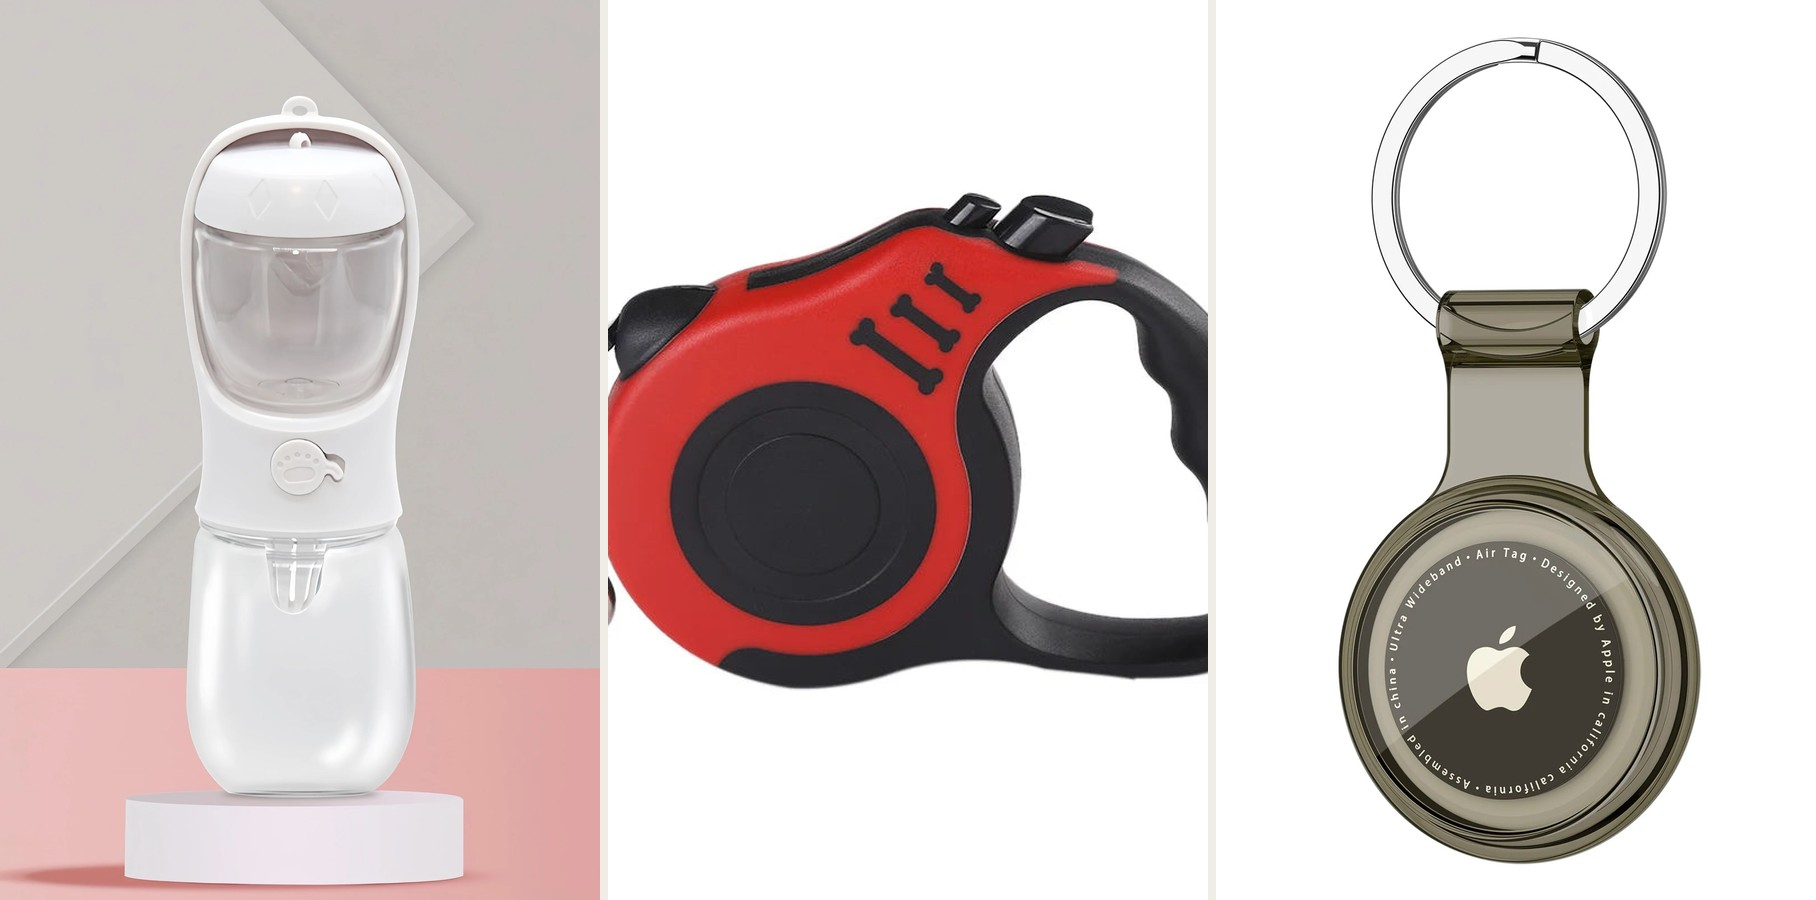
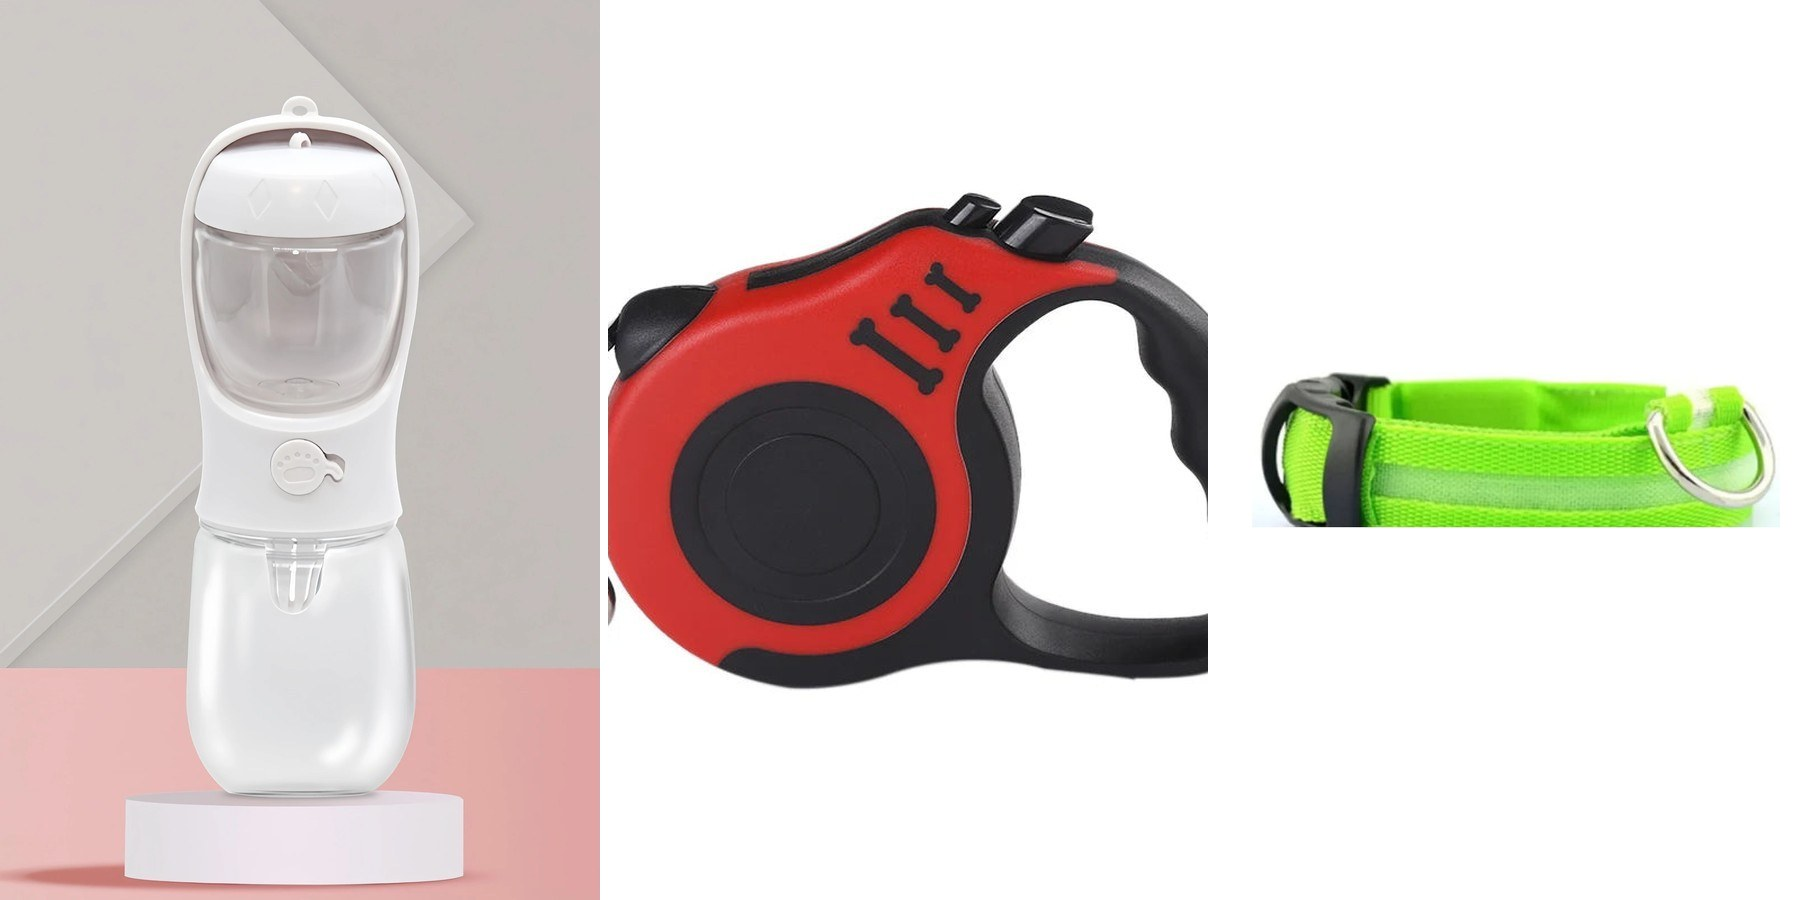
Remove the Dog AirTag Holder from the catalogue
The product was already dead in Shopify: a real Storefront cartCreate
with its stored variant GID returns "the merchandise does not exist"
while other variants succeed, so it was a live listing customers could
add to the cart but never buy.

Removed from products.js, the chatbot system prompt, the SEO product and
category metadata, two FAQ entries, one review testimonial, the shop
grid loading skeleton, and two blog links (de-linked, prose kept).

Product ids are deliberately NOT renumbered: lookups are by literal id,
so gaps at 4 and 7 are safe and mirror how discontinued SKUs are handled.

In bundleMap, 4:[6,1] is deleted and 6:[4,2] becomes 6:[2]. showBundle
already handles a single companion (isPair switches the box to "Combined
Price" / "Add Both To Cart"), so no replacement pairing was invented.

all-gear-flatlay.jpg depicted the AirTag holder in its third panel,
complete with Apple branding and supplier text that failed the image
quality bar. Rebuilt keeping panels 1-2 byte-identical and swapping the
third for the Light Up Collar, preserving the water/leash/safety spread.

diff --git a/index.html b/index.html
@@ -450,7 +450,7 @@ html.route-shop-safety #shopProducts .skel-card:not([data-cat="safety"]) { displ
         </div>
 
         <div class="col-slide">
-          <div class="col-slide-img"><img loading="lazy" class="lifestyle-img" src="/images/products/all-gear-flatlay.jpg" alt="A flat-lay of PawHaul products: the 2-in-1 Dog Water Bottle, Retractable Dog Leash, and Dog AirTag Holder"></div>
+          <div class="col-slide-img"><img loading="lazy" class="lifestyle-img" src="/images/products/all-gear-flatlay.jpg" alt="A flat-lay of PawHaul products: the 2-in-1 Dog Water Bottle, Retractable Dog Leash, and Light Up Dog Collar"></div>
           <div class="col-slide-body">
             <div class="col-slide-tag"><svg xmlns="http://www.w3.org/2000/svg" viewBox="0 0 100 100" fill="currentColor" style="width:1.05em;height:1.05em;vertical-align:-0.15em;display:inline-block" aria-hidden="true"><ellipse cx="50" cy="67" rx="20" ry="16"/><ellipse cx="27" cy="47" rx="9" ry="12"/><ellipse cx="42" cy="35" rx="9" ry="12"/><ellipse cx="58" cy="35" rx="9" ry="12"/><ellipse cx="73" cy="47" rx="9" ry="12"/></svg> All Walk Gear</div>
             <h3 class="col-slide-head">Every Walk, Fully Covered</h3>
@@ -647,11 +647,6 @@ html.route-shop-safety #shopProducts .skel-card:not([data-cat="safety"]) { displ
         <p class="review-text">"LED collar is super bright at night and charges up fast. Clips onto any collar in seconds and holds a charge through multiple walks. My dog doesn't even notice it's there."</p>
         <div class="reviewer"><img class="reviewer-av" loading="lazy" src="https://images.unsplash.com/photo-1518717758536-85ae29035b6d?w=200&q=90" alt="James R.'s happy dog"><div><div class="reviewer-name">James R.</div><div class="reviewer-loc">Austin, TX</div></div><div class="verified">✓ Verified</div></div>
       </div>
-      <div class="review-card">
-        <div class="review-stars"><svg xmlns="http://www.w3.org/2000/svg" viewBox="0 0 24 24" fill="#FFB800" style="width:1em;height:1em;vertical-align:-0.12em;display:inline-block" aria-hidden="true"><path d="M12 2l2.92 6.62 7.08.6-5.4 4.7 1.62 7.08L12 17.3 5.78 21l1.62-7.08-5.4-4.7 7.08-.6z"/></svg><svg xmlns="http://www.w3.org/2000/svg" viewBox="0 0 24 24" fill="#FFB800" style="width:1em;height:1em;vertical-align:-0.12em;display:inline-block" aria-hidden="true"><path d="M12 2l2.92 6.62 7.08.6-5.4 4.7 1.62 7.08L12 17.3 5.78 21l1.62-7.08-5.4-4.7 7.08-.6z"/></svg><svg xmlns="http://www.w3.org/2000/svg" viewBox="0 0 24 24" fill="#FFB800" style="width:1em;height:1em;vertical-align:-0.12em;display:inline-block" aria-hidden="true"><path d="M12 2l2.92 6.62 7.08.6-5.4 4.7 1.62 7.08L12 17.3 5.78 21l1.62-7.08-5.4-4.7 7.08-.6z"/></svg><svg xmlns="http://www.w3.org/2000/svg" viewBox="0 0 24 24" fill="#FFB800" style="width:1em;height:1em;vertical-align:-0.12em;display:inline-block" aria-hidden="true"><path d="M12 2l2.92 6.62 7.08.6-5.4 4.7 1.62 7.08L12 17.3 5.78 21l1.62-7.08-5.4-4.7 7.08-.6z"/></svg><svg xmlns="http://www.w3.org/2000/svg" viewBox="0 0 24 24" fill="#FFB800" style="width:1em;height:1em;vertical-align:-0.12em;display:inline-block" aria-hidden="true"><path d="M12 2l2.92 6.62 7.08.6-5.4 4.7 1.62 7.08L12 17.3 5.78 21l1.62-7.08-5.4-4.7 7.08-.6z"/></svg></div>
-        <p class="review-text">"AirTag holder hasn't budged in two months. Clips onto her collar, waterproof, she's gone through puddles and mud and it stays put. Small thing but I sleep better knowing where Luna is."</p>
-        <div class="reviewer"><img class="reviewer-av" loading="lazy" src="https://images.unsplash.com/photo-1561037404-61cd46aa615b?w=200&q=90" alt="Maria L. with her labrador"><div><div class="reviewer-name">Maria L.</div><div class="reviewer-loc">Denver, CO</div></div><div class="verified">✓ Verified</div></div>
-      </div>
     </div>
       <button class="carousel-btn carousel-next" id="revCarouselNext" aria-label="Next">&#8250;</button>
     </div>
@@ -683,14 +678,6 @@ html.route-shop-safety #shopProducts .skel-card:not([data-cat="safety"]) { displ
       <div class="faq-item" id="faq-returns">
         <div class="faq-q" onclick="toggleFaq(this)">What is your return policy?<span class="faq-icon">+</span></div>
         <div class="faq-a">We offer a 30 day hassle free return policy on all products. Not happy for any reason? We'll make it right — no questions asked.</div>
-      </div>
-      <div class="faq-item">
-        <div class="faq-q" onclick="toggleFaq(this)">Does the AirTag holder fit all collars?<span class="faq-icon">+</span></div>
-        <div class="faq-a">Yes! The PawHaul AirTag holder is universal and clips onto any standard dog collar. It's waterproof and secure so it won't fall off during even the most active walks.</div>
-      </div>
-      <div class="faq-item">
-        <div class="faq-q" onclick="toggleFaq(this)">Does the Dog AirTag Holder come with an AirTag?<span class="faq-icon">+</span></div>
-        <div class="faq-a">No — the Dog AirTag Holder is the protective, waterproof case only. It fits Apple AirTag 1st and 2nd generation, but the AirTag itself is sold separately by Apple.</div>
       </div>
     </div>
   </section>
@@ -795,17 +782,6 @@ html.route-shop-safety #shopProducts .skel-card:not([data-cat="safety"]) { displ
       </div>
       <!-- Collapsible Dog Bowl (6 colours) -->
       <div class="product-card skel-card" data-cat="water" aria-hidden="true">
-        <div class="product-img-wrap"><div class="product-img"></div></div>
-        <div class="product-info">
-          <div class="product-name">&nbsp;</div>
-          <div class="product-stars"><svg xmlns="http://www.w3.org/2000/svg" viewBox="0 0 24 24" style="width:1em;height:1em;vertical-align:-0.12em;display:inline-block" aria-hidden="true"><path d="M12 2l2.92 6.62 7.08.6-5.4 4.7 1.62 7.08L12 17.3 5.78 21l1.62-7.08-5.4-4.7 7.08-.6z"/></svg> <span>(0)</span></div>
-          <div class="product-price"><span class="price-now">&nbsp;</span></div>
-          <div class="card-opts"><div class="mini-swatches"><span class="mini-swatch"></span><span class="mini-swatch"></span><span class="mini-swatch"></span><span class="mini-swatch"></span><span class="mini-swatch"></span><span class="mini-swatch"></span></div></div>
-          <button class="btn-black" type="button" tabindex="-1" disabled>&nbsp;</button>
-        </div>
-      </div>
-      <!-- Dog AirTag Holder (6 colours) -->
-      <div class="product-card skel-card" data-cat="safety" aria-hidden="true">
         <div class="product-img-wrap"><div class="product-img"></div></div>
         <div class="product-info">
           <div class="product-name">&nbsp;</div>

diff --git a/api/chat.js b/api/chat.js
@@ -12,7 +12,6 @@ var SYSTEM_PROMPT = [
   "1. 2-in-1 Dog Water Bottle - Portable 2-in-1 bottle that keeps your dog hydrated and fed on every walk. Leak-proof design holds both water and dry food in one sleek container, with a flip-out drinking spout for easy on-the-go hydration. Lightweight, durable and great for walks, hikes and travel. Ideal for small to medium dogs. PRICE VARIES BY SIZE: 350ml is $19.99 (was $27.99) and 550ml is $24.99 (was $34.99). Colors: Pink, White, Blue.",
   "2. Retractable Dog Leash - PRICE VARIES BY LENGTH: 3m (10ft) is $17.99 (was $24.99) and 5m (16ft) is $21.99 (was $28.99). Retractable leash with a smooth, jam-free mechanism and a one-touch lock button for instant stopping power. Durable nylon construction handles dogs of all sizes. Comfortable ergonomic grip. Colors: Red, Green, Blue, White, Pink. IMPORTANT: Pink is OUT OF STOCK in the 5m (16ft) length only — Pink in 3m (10ft) is fully available. If a customer asks for Pink in 5m, let them know that combo is currently out of stock and offer Pink in 3m or another color in 5m instead. Pairs perfectly with the Poop Bag Clip and Poop Bag Holder.",
   "3. Collapsible Dog Bowl - $14.99 (was $21.99) - Silicone collapsible bowl that folds flat for easy storage and pops open in seconds for food or water. Built-in carabiner clip hooks onto your bag, belt, or leash. Size: 5.12in diameter x 1.97in height. Durable, lightweight, easy to clean. Colors: Red, Blue, Orange, Green, White, Black.",
-  "4. Dog AirTag Holder - $10.99 (was $16.99) - Waterproof silicone holder that keeps Apple AirTag on your dog's collar. Twist lock closure. Fits standard collars up to 1.5 inch wide. Colors: Black, Transparent, Pink, Blue, Green, Purple. IMPORTANT: this is the CASE ONLY — it does not include an Apple AirTag, which is sold separately by Apple. Proactively mention this whenever discussing this product so customers aren't surprised.",
   "5. Poop Bag Clip - $9.99 (was $14.99) - Hands-free clip that holds a USED poop bag securely so you can keep both hands free while walking your dog. Lightweight and compact, clips easily onto any leash or belt for quick, hygienic cleanup. Colors: Orange, Purple, Red, Black, Green, Pink, Blue. Pairs perfectly with the Retractable Dog Leash and the Poop Bag Holder.",
   "6. Light Up Dog Collar - PRICE VARIES BY SIZE: S (34-41cm) is $19.99 (was $26.99), M (37-46cm) is $21.99 (was $29.99), L (41-52cm) is $23.99 (was $32.99), XL (42-56cm) is $25.99 (was $35.99). USB rechargeable LED collar with 3 light modes: fast blink, slow blink, and steady glow. Super bright for night walks, doesn't overheat, charges fully in about 2 hours and holds a charge through multiple walks. Detachable design fits any standard collar setup. Colors: Green, Blue, Red, Pink, Black.",
   "8. Poop Bag Holder - $9.99 (was $14.99) - Durable canvas holder that attaches to your leash with a sturdy carabiner clip, keeping a full roll of UNUSED waste bags organized and within reach — just pull a bag out whenever you need one. Simple, reliable, built to last. Colors: Green, Blue, Black. This is DIFFERENT from the Poop Bag Clip (which holds a used bag) — if a customer seems unsure which one they want, briefly clarify the difference: Holder = holds a roll of unused bags ready to use, Clip = carries a used bag hands-free until disposal. Pairs perfectly with the Poop Bag Clip and the 2-in-1 Dog Water Bottle.",

diff --git a/products.js b/products.js
@@ -177,49 +177,6 @@ var products = [
     whatsInBox: "1× collapsible silicone bowl with carabiner clip"
   },
   {
-    id: 4, name: "Dog AirTag Holder", price: 10.99, was: 16.99, emoji: "📍", image: "", category: "safety",
-    badge: "Safety", badgeClass: "badge-safety", reviews: 38,
-    desc: "A secure waterproof silicone holder that keeps your Apple AirTag attached to your dog's collar at all times — so you always know where they are. The twist-lock closure holds the AirTag firmly in place through daily walks, rain, mud, and rough play. Compatible with Apple AirTag 1st and 2nd generation. Fits any standard collar up to 1.5\" wide.",
-    tagline: "Always know where they are, rain or shine.",
-    // Shown as a callout on the product page + surfaced in the chatbot —
-    // this is the case only, not the AirTag itself.
-    caseOnlyNote: "Case only — AirTag sold separately",
-    sizes: ["Universal — fits all standard collars"],
-    colors: ["Black", "Transparent", "Pink", "Blue", "Green", "Purple"],
-
-    images: {
-      "Black": "https://cdn.shopify.com/s/files/1/0812/3259/3152/files/S9fc066621549467db87867143006b174g.webp?width=900",
-      "Transparent": "https://cdn.shopify.com/s/files/1/0812/3259/3152/files/S43a2380c6d5a45ffa2a1743422529d30K.webp?width=900",
-      "Pink": "https://cdn.shopify.com/s/files/1/0812/3259/3152/files/S95dd5f8435454a1d9a33153ac34b3b10p.webp?width=900",
-      "Blue": "https://cdn.shopify.com/s/files/1/0812/3259/3152/files/S0e0c88fc2c2a4504ba1362ebe8c19ae6B.webp?width=900",
-      "Green": "https://cdn.shopify.com/s/files/1/0812/3259/3152/files/S9056ad1490f74f2cb16aaa0efab4f25dv.webp?width=900",
-      "Purple": "https://cdn.shopify.com/s/files/1/0812/3259/3152/files/S44b6cdd7d98d431cb3a07d23fafa7b31A.webp?width=900"
-    },
-
-    // Real Shopify variant GIDs (Storefront API) for checkout.
-    shopifyVariants: { productGid: "gid://shopify/Product/9518276575488", byColor: {
-        "Black": "gid://shopify/ProductVariant/48945265049856",
-        "Transparent": "gid://shopify/ProductVariant/48945265017088",
-        "Pink": "gid://shopify/ProductVariant/48945264984320",
-        "Blue": "gid://shopify/ProductVariant/48945264951552",
-        "Green": "gid://shopify/ProductVariant/48945264918784",
-        "Purple": "gid://shopify/ProductVariant/48945264886016"
-      } },
-
-    features: [
-      "Compatible with Apple AirTag 1st & 2nd gen",
-      "Attaches securely to any collar up to 1.5\" wide",
-      "100% waterproof premium silicone",
-      "Twist-lock closure — won't pop off during play",
-      "Does not interfere with AirTag signal",
-      "Lightweight: under 15g",
-      "Built for daily wear — UV and weather resistant",
-      "Easy to transfer between collars"
-    ],
-    material: "Premium waterproof food-grade silicone · Stainless steel locking ring",
-    whatsInBox: "1× AirTag silicone collar holder (Apple AirTag not included)"
-  },
-  {
     id: 5, name: "Poop Bag Clip", price: 9.99, was: 14.99, emoji: "🧷", image: "", category: "leash",
     badge: "New", badgeClass: "badge-new", reviews: 67,
     desc: "Never fumble with a bag of waste on your walk again. This hands-free clip holds used poop bags securely so you can keep both hands free while walking your dog. Lightweight and compact, it clips easily onto any leash or belt for a quick, hygienic cleanup every time.",

diff --git a/blog.js b/blog.js
@@ -135,7 +135,7 @@ var blogPosts = [
 
 <h3>Layer three: findability if the worst happens</h3>
 <p>Visibility gear stops accidents. It does nothing once a spooked dog has slipped its collar and bolted into the dark — and fireworks, thunder and a car backfiring all cause exactly that. A Bluetooth tracker on the collar means the difference between searching and knowing.</p>
-<p>The weak point of tracker setups is almost always the attachment. A tag that swings on a split ring works loose over months of movement. A <a href="/product/dog-airtag-holder">waterproof AirTag holder</a> with a twist-lock closure keeps the tracker fixed to the collar and sealed against rain and puddles — the two things that actually kill tracker setups.</p>
+<p>The weak point of tracker setups is almost always the attachment. A tag that swings on a split ring works loose over months of movement. A waterproof tracker holder with a twist-lock closure keeps the tracker fixed to the collar and sealed against rain and puddles — the two things that actually kill tracker setups.</p>
 
 <h2>Route choices matter as much as gear</h2>
 <ul>
@@ -203,7 +203,7 @@ var blogPosts = [
 <p>A <a href="/product/light-up-dog-collar">rechargeable LED collar</a> puts a light source on the dog that works from any angle and does not depend on anyone else's headlights. Charge it weekly on a fixed day; the usual failure mode is a flat light nobody noticed.</p>
 
 <h2>Off-leash areas: add a tracker</h2>
-<p>If your dog goes off leash anywhere, a Bluetooth tracker is the highest-value thing you can add. The attachment is the part that matters — a tag on a split ring works loose over months, and a soaked tracker is a dead tracker. A <a href="/product/dog-airtag-holder">waterproof holder with a twist-lock</a> handles both.</p>
+<p>If your dog goes off leash anywhere, a Bluetooth tracker is the highest-value thing you can add. The attachment is the part that matters — a tag on a split ring works loose over months, and a soaked tracker is a dead tracker. A waterproof holder with a twist-lock handles both.</p>
 
 <h2>Long walks and hikes (90+ minutes)</h2>
 <ul>

diff --git a/api/_seo.js b/api/_seo.js
@@ -321,10 +321,6 @@ const PRODUCT_COPY = {
     title: 'Collapsible Dog Bowl — Portable Silicone Travel Bowl',
     description: 'Food-grade silicone dog bowl that folds flat and pops open in seconds. Built-in carabiner clips to a leash or belt loop. $14.99 with free shipping.'
   },
-  4: {
-    title: 'Dog AirTag Holder — Waterproof Silicone Collar Case',
-    description: 'Waterproof silicone AirTag holder with a twist-lock closure that keeps an Apple AirTag secure on any standard dog collar. $10.99 with free shipping.'
-  },
   5: {
     title: 'Hands-Free Dog Poop Bag Clip for Leashes',
     description: 'Hands-free clip that holds tied-off waste bags on your leash so both hands stay free on the walk. Fits all leashes, seven colours. $9.99, free shipping.'
@@ -347,7 +343,7 @@ const PAGE_COPY = {
   },
   shop: {
     title: 'Shop All Dog Walk Gear — Leashes, Bowls & Safety Gear',
-    description: 'Browse every PawHaul walk essential: retractable leashes, collapsible bowls, 2-in-1 water bottles, LED collars, AirTag holders and bag carriers. Free shipping.',
+    description: 'Browse every PawHaul walk essential: retractable leashes, collapsible bowls, 2-in-1 water bottles, LED collars and poop bag carriers. Free shipping.',
     path: '/shop'
   },
   'shop:water': {
@@ -361,8 +357,8 @@ const PAGE_COPY = {
     path: '/shop/leash'
   },
   'shop:safety': {
-    title: 'Dog Safety Gear — LED Collars & AirTag Holders',
-    description: 'Be seen and stay findable after dark: USB rechargeable light up dog collars and waterproof AirTag holders that lock onto any collar. Free shipping.',
+    title: 'Dog Safety Gear — USB Rechargeable LED Dog Collars',
+    description: 'Be seen after dark: USB rechargeable light up dog collars with three light modes, detachable and sized from small to extra large. Free shipping.',
     path: '/shop/safety'
   },
   about: {

diff --git a/app.js b/app.js
@@ -341,9 +341,12 @@ var bundleMap = {
   1: [2, 3],    // Water Bottle → suggest Retractable Leash + Bowl
   2: [5, 8],    // Retractable Leash → suggest Poop Bag Clip + Poop Bag Holder
   3: [1, 2],    // Bowl → suggest Water Bottle + Retractable Leash
-  4: [6, 1],    // AirTag Holder → suggest Light Up Collar + Water Bottle
   5: [8, 2],    // Poop Bag Clip → suggest Poop Bag Holder + Retractable Leash
-  6: [4, 2],    // Light Up Collar → suggest AirTag Holder + Retractable Leash
+  // Light Up Collar used to also suggest the Dog AirTag Holder; that product
+  // was removed from the catalogue, so this is now a two-item pairing (which
+  // showBundle already handles — it switches to "Combined Price" / "Add Both
+  // To Cart"). No replacement was invented for it.
+  6: [2],       // Light Up Collar → suggest Retractable Leash
   8: [5, 1],    // Poop Bag Holder → suggest Poop Bag Clip + Water Bottle
 };
 
